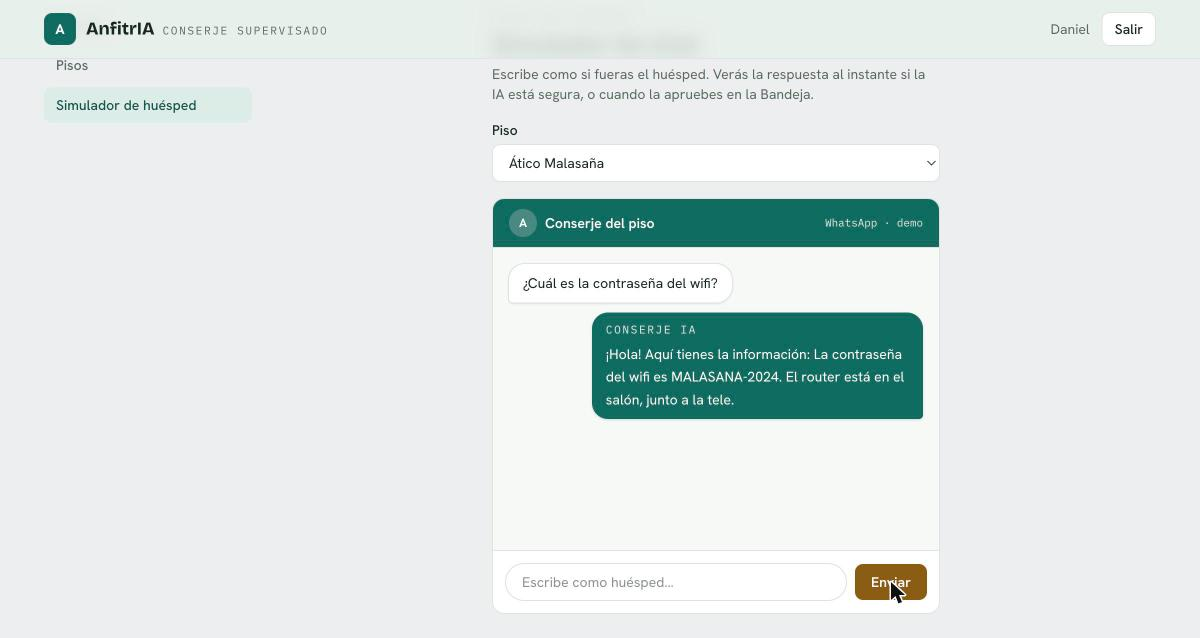
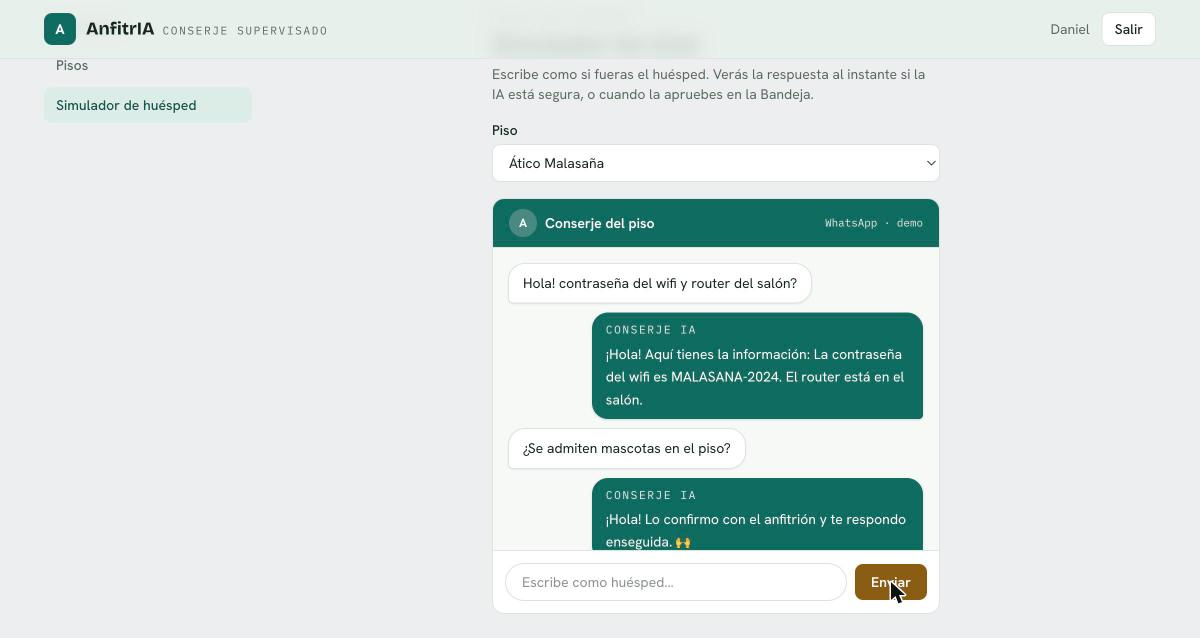
feat: modelo autónomo con escalado (la IA responde sola)
- La IA responde al huésped al instante cuando tiene confianza; si no, envía un
  aviso de espera y escala al anfitrión (el huésped nunca se queda sin respuesta)
- Configurable por piso (auto_answer); umbral bajado a 0.55
- 'Bandeja de aprobación' -> 'Escaladas' (solo lo dudoso, no un peaje por mensaje)
- Simulador sin espera bloqueante; toggle auto/manual en Pisos
- Tests actualizados (9/9) + verificado en vivo (respuesta autónoma y escalada)
- README y capturas actualizados

diff --git a/frontend/src/pages/InboxPage.tsx b/frontend/src/pages/InboxPage.tsx
@@ -14,18 +14,19 @@ export function InboxPage() {
     <div className="flex flex-col gap-5">
       <header>
         <p className="eyebrow text-brand-ink">Supervisión</p>
-        <h1 className="mt-1 font-display text-2xl font-bold text-ink">Bandeja de aprobación</h1>
+        <h1 className="mt-1 font-display text-2xl font-bold text-ink">Escaladas</h1>
         <p className="mt-1 text-sm text-muted">
-          Respuestas que la IA ha preparado y esperan tu visto bueno.
+          La IA responde sola cuando está segura. Aquí solo caen los casos que
+          prefirió consultarte — el huésped ya recibió un mensaje de espera.
         </p>
       </header>
 
       {isLoading ? (
         <p className="text-sm text-muted">Cargando…</p>
       ) : !data || data.length === 0 ? (
-        <EmptyState title="Bandeja al día">
-          No hay respuestas pendientes. Cuando un huésped escriba, la IA preparará
-          un borrador y aparecerá aquí para que lo revises.
+        <EmptyState title="Sin escaladas">
+          La IA está atendiendo a los huéspedes por su cuenta. Cuando dude sobre
+          algo, aparecerá aquí para que respondas tú.
         </EmptyState>
       ) : (
         <div className="flex flex-col gap-4">
@@ -66,13 +67,15 @@ function ApprovalCard({ item }: { item: InboxItem }) {
         <ChatBubble direction="in" text={item.inbound_text} tag="Huésped" />
 
         <div>
-          <span className="eyebrow mb-1.5 block text-muted">Borrador de la IA · edítalo si quieres</span>
+          <span className="eyebrow mb-1.5 block text-muted">
+            Respuesta sugerida por la IA · edítala si quieres
+          </span>
           <TextArea rows={3} value={text} onChange={(e) => setText(e.target.value)} />
         </div>
 
         <div className="flex items-center justify-between">
           <span className="text-xs text-muted">
-            {edited ? 'Editado por ti' : 'Sin cambios'}
+            {edited ? 'Editado por ti' : 'El huésped ya recibió un aviso de espera'}
           </span>
           <div className="flex gap-2">
             {edited ? (
@@ -85,7 +88,7 @@ function ApprovalCard({ item }: { item: InboxItem }) {
               disabled={approve.isPending || text.trim().length === 0}
               onClick={() => approve.mutate()}
             >
-              {approve.isPending ? 'Enviando…' : edited ? 'Enviar edición' : 'Aprobar y enviar'}
+              {approve.isPending ? 'Enviando…' : 'Responder al huésped'}
             </Button>
           </div>
         </div>

diff --git a/frontend/src/pages/PropertiesPage.tsx b/frontend/src/pages/PropertiesPage.tsx
@@ -13,11 +13,12 @@ export function PropertiesPage() {
   const [selectedId, setSelectedId] = useState<number | null>(null)
   const [name, setName] = useState('')
   const [lang, setLang] = useState('es')
+  const [autoAnswer, setAutoAnswer] = useState(true)
 
   const selected = properties?.find((p) => p.id === selectedId) ?? null
 
   const create = useMutation({
-    mutationFn: () => PropertiesApi.create({ name, default_language: lang }),
+    mutationFn: () => PropertiesApi.create({ name, default_language: lang, auto_answer: autoAnswer }),
     onSuccess: (property) => {
       setName('')
       setSelectedId(property.id)
@@ -57,6 +58,20 @@ export function PropertiesPage() {
                 <option value="en">Inglés</option>
               </select>
             </label>
+            <label className="flex items-start gap-2.5 rounded-lg bg-sunk/60 px-3 py-2.5">
+              <input
+                type="checkbox"
+                checked={autoAnswer}
+                onChange={(e) => setAutoAnswer(e.target.checked)}
+                className="mt-0.5 h-4 w-4 accent-brand"
+              />
+              <span className="text-sm text-ink">
+                Responder automáticamente
+                <span className="mt-0.5 block text-xs text-muted">
+                  La IA contesta sola cuando está segura; si no, te lo escala.
+                </span>
+              </span>
+            </label>
             <Button variant="brand" type="submit" disabled={create.isPending}>
               {create.isPending ? 'Creando…' : 'Añadir piso'}
             </Button>
@@ -76,7 +91,12 @@ export function PropertiesPage() {
               }
             >
               <span className="font-medium">{property.name}</span>
-              <Tag tone="muted">{property.default_language.toUpperCase()}</Tag>
+              <span className="flex items-center gap-1.5">
+                <Tag tone={property.auto_answer ? 'brand' : 'muted'}>
+                  {property.auto_answer ? 'auto' : 'manual'}
+                </Tag>
+                <Tag tone="muted">{property.default_language.toUpperCase()}</Tag>
+              </span>
             </button>
           ))}
         </div>

diff --git a/frontend/src/pages/GuestSimPage.tsx b/frontend/src/pages/GuestSimPage.tsx
@@ -12,7 +12,6 @@ export function GuestSimPage() {
   const [propertyId, setPropertyId] = useState<number | ''>('')
   const [conversationId, setConversationId] = useState<number | null>(null)
   const [text, setText] = useState('')
-  const [waiting, setWaiting] = useState(false)
 
   const guestRef = '+34 600 · demo'
 
@@ -33,7 +32,6 @@ export function GuestSimPage() {
     onSuccess: (result) => {
       setConversationId(result.conversation.id)
       setText('')
-      setWaiting(!result.auto_sent)
       void queryClient.invalidateQueries({ queryKey: ['conv-messages', result.conversation.id] })
     },
   })
@@ -56,7 +54,6 @@ export function GuestSimPage() {
   }
 
   const thread = messages.data ?? []
-  const lastIsGuest = thread.length > 0 && thread[thread.length - 1].direction === 'in'
 
   return (
     <div className="mx-auto flex max-w-md flex-col gap-4">
@@ -113,11 +110,6 @@ export function GuestSimPage() {
               />
             ))
           )}
-          {waiting && lastIsGuest ? (
-            <p className="self-end rounded-lg bg-brass-soft px-3 py-1.5 text-xs text-brass-ink">
-              ⏳ Esperando aprobación del anfitrión…
-            </p>
-          ) : null}
         </div>
 
         <form onSubmit={onSend} className="flex items-center gap-2 border-t border-line p-3">

diff --git a/frontend/src/api/endpoints.ts b/frontend/src/api/endpoints.ts
@@ -19,8 +19,12 @@ export const AuthApi = {
 
 export const PropertiesApi = {
   list: () => api<Property[]>('/properties'),
-  create: (body: { name: string; address?: string; default_language: string }) =>
-    api<Property>('/properties', { method: 'POST', body }),
+  create: (body: {
+    name: string
+    address?: string
+    default_language: string
+    auto_answer?: boolean
+  }) => api<Property>('/properties', { method: 'POST', body }),
   knowledge: (propertyId: number) =>
     api<KnowledgeItem[]>(`/properties/${propertyId}/knowledge`),
   addKnowledge: (propertyId: number, body: { category: string; content: string }) =>

diff --git a/frontend/src/components/ConfidenceMeter.tsx b/frontend/src/components/ConfidenceMeter.tsx
@@ -1,5 +1,5 @@
 const SEGMENTS = 10
-const AUTO_THRESHOLD = 0.85
+const AUTO_THRESHOLD = 0.55
 
 /**
  * Medidor de confianza de la IA — el elemento firma de AnfitrIA.
@@ -23,7 +23,7 @@ export function ConfidenceMeter({ value }: { value: number }) {
       </div>
       <span className="font-mono text-xs font-medium text-ink">{pct}%</span>
       <span className="eyebrow text-muted">confianza</span>
-      {auto ? <span className="eyebrow text-brass-ink">· auto-enviable</span> : null}
+      {auto ? <span className="eyebrow text-brass-ink">· responde sola</span> : null}
     </div>
   )
 }

diff --git a/frontend/src/types.ts b/frontend/src/types.ts
@@ -9,6 +9,7 @@ export interface Property {
   name: string
   address: string | null
   default_language: string
+  auto_answer: boolean
 }
 
 export interface KnowledgeItem {
@@ -46,7 +47,7 @@ export interface InboundResult {
   conversation: Conversation
   inbound: Message
   draft: Draft
-  auto_sent: boolean
+  answered: boolean
 }
 
 export interface InboxItem {

diff --git a/frontend/src/components/Shell.tsx b/frontend/src/components/Shell.tsx
@@ -4,7 +4,7 @@ import { NavLink } from 'react-router-dom'
 import { useAuth } from '../auth'
 
 const NAV = [
-  { to: '/', label: 'Bandeja', end: true },
+  { to: '/', label: 'Escaladas', end: true },
   { to: '/pisos', label: 'Pisos', end: false },
   { to: '/simulador', label: 'Simulador de huésped', end: false },
 ]

diff --git a/backend/tests/test_flow.py b/backend/tests/test_flow.py
@@ -27,7 +27,7 @@ async def test_manual_approval_flow(client):
     )
     assert resp.status_code == 201, resp.text
     body = resp.json()
-    assert body["auto_sent"] is False
+    assert body["answered"] is False  # sin conocimiento -> se escala
     draft_id = body["draft"]["id"]
     conversation_id = body["conversation"]["id"]
 
@@ -52,10 +52,10 @@ async def test_manual_approval_flow(client):
     assert resp.status_code == 201, resp.text
     assert resp.json()["direction"] == "out"
 
-    # la conversación tiene mensaje entrante + saliente
+    # la conversación tiene: entrada + mensaje de espera + respuesta del anfitrión
     resp = await client.get(f"/conversations/{conversation_id}/messages", headers=headers)
     directions = [m["direction"] for m in resp.json()]
-    assert directions == ["in", "out"]
+    assert directions == ["in", "out", "out"]
 
     # ya no está pendiente
     resp = await client.get("/drafts?status=pending", headers=headers)
@@ -84,7 +84,7 @@ async def test_auto_send_with_matching_knowledge(client):
     )
     assert resp.status_code == 201, resp.text
     body = resp.json()
-    assert body["auto_sent"] is True
+    assert body["answered"] is True  # con conocimiento relevante -> responde sola
     assert body["draft"]["status"] == "sent"
 
     conversation_id = body["conversation"]["id"]
@@ -146,7 +146,32 @@ async def test_rag_ignores_irrelevant_question(client):
     )
     body = resp.json()
     assert "MALASANA" not in body["draft"]["text"]  # no soltó el wifi sin venir a cuento
-    assert body["auto_sent"] is False
+    assert body["answered"] is False  # no sabía -> escala en vez de inventar
+
+
+async def test_property_with_auto_answer_off_always_escalates(client):
+    headers = await register_and_login(client, email="manual@test.com")
+    resp = await client.post(
+        "/properties",
+        json={"name": "Casa Manual", "default_language": "es", "auto_answer": False},
+        headers=headers,
+    )
+    assert resp.status_code == 201
+    assert resp.json()["auto_answer"] is False
+    prop_id = resp.json()["id"]
+    await client.post(
+        f"/properties/{prop_id}/knowledge",
+        json={"category": "wifi", "content": "La contraseña del wifi es MALASANA-2024."},
+        headers=headers,
+    )
+
+    resp = await client.post(
+        "/channels/sim/inbound",
+        json={"property_id": prop_id, "guest_ref": "g", "text": "¿Cuál es la contraseña del wifi?"},
+        headers=headers,
+    )
+    # aunque tenga la respuesta, este piso escala siempre
+    assert resp.json()["answered"] is False
 
 
 async def test_ownership_isolation(client):

diff --git a/backend/app/services/conversation.py b/backend/app/services/conversation.py
@@ -16,12 +16,19 @@ from app.models import AuditLog, Conversation, Draft, Message, Property
 from app.services.retrieval import retrieve
 
 
+# Mensaje de espera que recibe el huésped al instante cuando se escala al anfitrión.
+HOLDING = {
+    "es": "¡Hola! Lo confirmo con el anfitrión y te respondo enseguida. 🙌",
+    "en": "Hi! Let me check this with the host and get right back to you. 🙌",
+}
+
+
 @dataclass
 class InboundOutcome:
     conversation: Conversation
     inbound: Message
     draft: Draft
-    auto_sent: bool
+    answered: bool
 
 
 async def _get_or_create_conversation(
@@ -94,9 +101,11 @@ async def handle_inbound(
     )
     await session.flush()
 
-    auto_sent = False
-    if reply.confidence >= settings.auto_send_threshold:
-        channel = get_channel()
+    channel = get_channel()
+    answered = property.auto_answer and reply.confidence >= settings.auto_answer_threshold
+
+    if answered:
+        # La IA responde sola al huésped.
         await channel.send(conversation.guest_ref, draft.text)
         session.add(
             Message(
@@ -108,11 +117,26 @@ async def handle_inbound(
         )
         draft.status = "sent"
         session.add(
-            AuditLog(actor="ai", action="auto_sent", conversation_id=conversation.id)
+            AuditLog(actor="ai", action="auto_answered", conversation_id=conversation.id)
         )
-        auto_sent = True
+    else:
+        # Escalada: el huésped recibe un mensaje de espera y el anfitrión responde luego.
+        holding = HOLDING["en"] if reply.language == "en" else HOLDING["es"]
+        await channel.send(conversation.guest_ref, holding)
+        session.add(
+            Message(
+                conversation_id=conversation.id,
+                direction="out",
+                text=holding,
+                language=reply.language,
+            )
+        )
+        # El borrador queda "pending": es la escalada para el anfitrión.
+        session.add(
+            AuditLog(actor="ai", action="escalated", conversation_id=conversation.id)
+        )
 
     await session.commit()
     return InboundOutcome(
-        conversation=conversation, inbound=inbound, draft=draft, auto_sent=auto_sent
+        conversation=conversation, inbound=inbound, draft=draft, answered=answered
     )

diff --git a/backend/app/schemas.py b/backend/app/schemas.py
@@ -31,6 +31,7 @@ class PropertyCreate(BaseModel):
     name: str
     address: str | None = None
     default_language: str = "es"
+    auto_answer: bool = True
 
 
 class PropertyOut(BaseModel):
@@ -39,6 +40,7 @@ class PropertyOut(BaseModel):
     name: str
     address: str | None
     default_language: str
+    auto_answer: bool
 
 
 class KnowledgeCreate(BaseModel):
@@ -91,7 +93,7 @@ class InboundResult(BaseModel):
     conversation: ConversationOut
     inbound: MessageOut
     draft: DraftOut
-    auto_sent: bool
+    answered: bool  # True: la IA respondió sola; False: se escaló al anfitrión
 
 
 class ApproveRequest(BaseModel):

diff --git a/backend/app/config.py b/backend/app/config.py
@@ -18,8 +18,9 @@ class Settings(BaseSettings):
     jwt_algorithm: str = "HS256"
     access_token_expire_minutes: int = 60 * 24
 
-    # Umbral de confianza para auto-envío (0-1); por encima, la IA puede enviar sola
-    auto_send_threshold: float = 0.85
+    # Umbral de confianza (0-1) para que la IA responda sola. Por debajo, escala
+    # al anfitrión (y el huésped recibe igual un mensaje de espera inmediato).
+    auto_answer_threshold: float = 0.55
 
     # IA: "mock" (sin clave, por defecto) | "anthropic" (Claude real)
     ai_provider: str = "mock"

diff --git a/backend/app/models.py b/backend/app/models.py
@@ -34,6 +34,8 @@ class Property(Base):
     name: Mapped[str] = mapped_column(String(255))
     address: Mapped[str | None] = mapped_column(String(500), default=None)
     default_language: Mapped[str] = mapped_column(String(8), default="es")
+    # Si True, la IA responde sola cuando tiene confianza; si no, escala al anfitrión.
+    auto_answer: Mapped[bool] = mapped_column(default=True)
     created_at: Mapped[datetime] = mapped_column(DateTime(timezone=True), default=_utcnow)
 
     owner: Mapped[User] = relationship(back_populates="properties")
